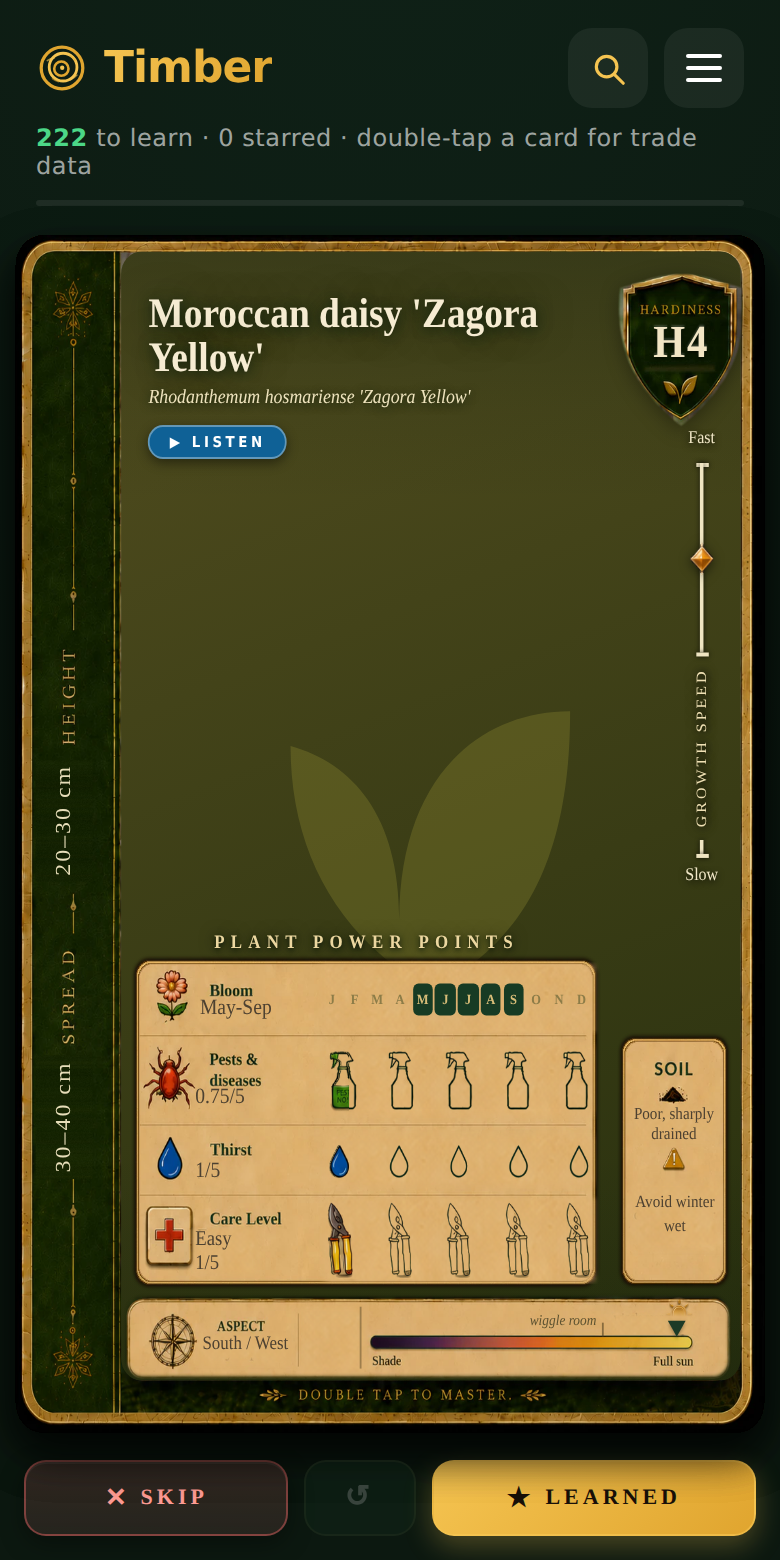
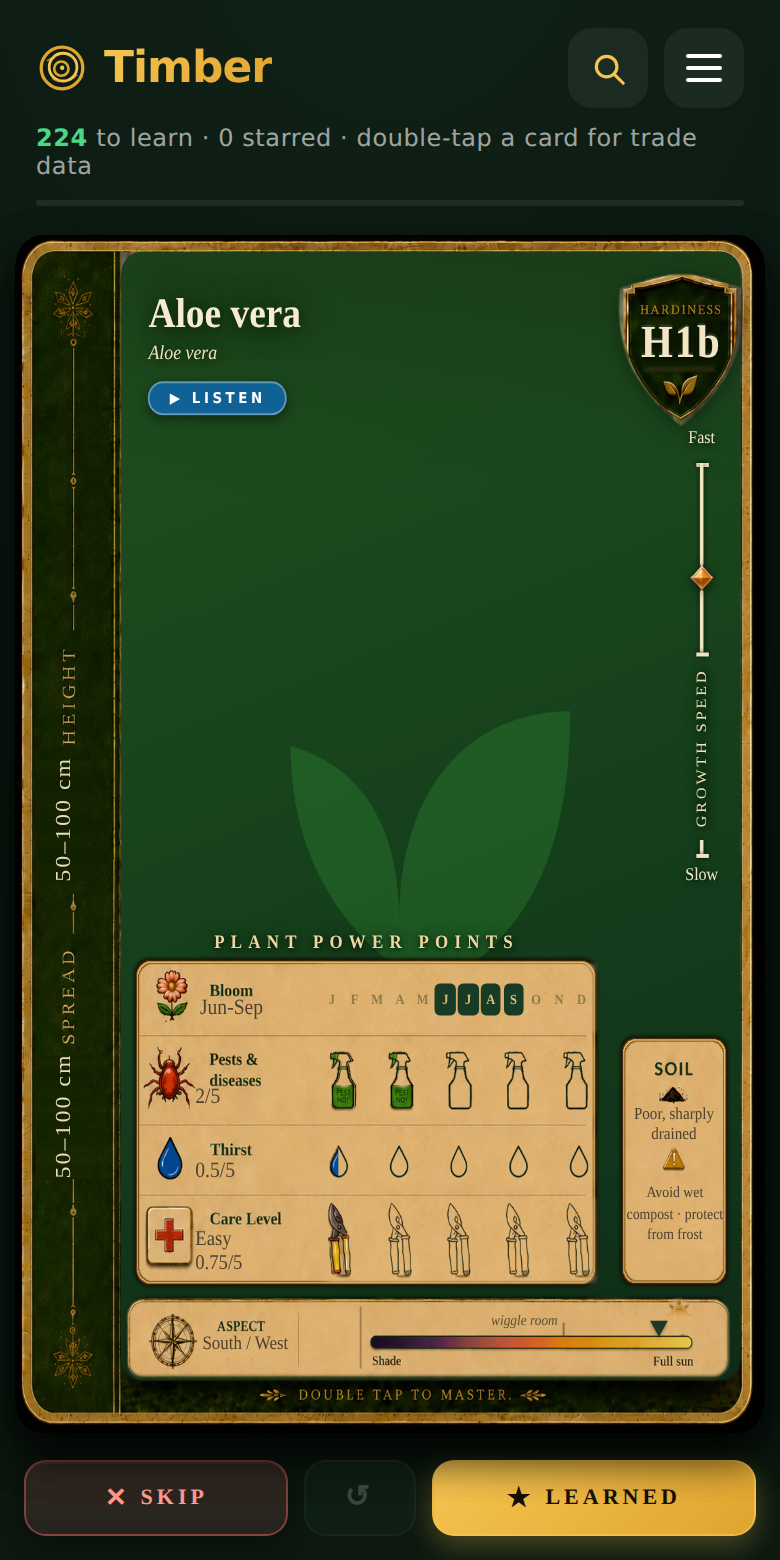
Monstera and Aloe: 224 / 81 — and toxicity text with nowhere to go
The run's first houseplants, both H1b.

The Monstera is the best photograph of the day: one mature fenestrated leaf
straight across the card band, splits and holes both legible, nothing else in 224
cards looks like it.

The Aloe is the weakest. Shot into the window, so the blades read olive-and-dark
rather than the "fleshy grey-green" the card names, and the pot fills the lower
half. Three crops: the first two put sky and pot in the band and it read as grass
behind glass; the third pulls in to the blades where the white spotting and the
toothed margins are both legible and drops the pot below the plaque. That is as
far as cropping takes this frame — a front-lit shot is a straight upgrade and it
lives on a windowsill. VQ 51, with two identity notes: the unconfirmed "Aloe
massawana hybrid" wording Oscar's own research correctly discarded, and the fact
that heavy leaf spotting fits juvenile A. vera but fits several other spotted
aloes just as well.

hardiness arrived as "H1B" and check-plant-json refused it — the RHS scale writes
H1a/H1b/H1c, so it was normalised to H1b. Same rating, same meaning, nothing else
touched.

TOXICITY, AND THIS IS THE SHARPEST CASE SO FAR. Both cards carry populated
toxicity — Monstera "Harmful if eaten · skin and eye irritant", Aloe "Harmful if
eaten" — and neither has anywhere to render. These are houseplants: handled
indoors, pruned over a worktop, in reach of children and cats in a way a border
[…]

diff --git a/timber.html b/timber.html
@@ -987,7 +987,7 @@
 
 <script>
 /* ---------- latin pronunciation (built-in speech engine — offline, no files, no deps) ---------- */
-const BUILD='r152 · 2026-08-19 · db53540';
+const BUILD='r154 · 2026-08-20 · f94e50e';
 /* Shown in the menu foot so a phone's version is checkable at a glance — the SW
    serves the previous build once before swapping, which made "which build am I
    on?" a real question. DO NOT EDIT BY HAND: the trailing hash is a digest of
@@ -6577,6 +6577,30 @@ const PLANTS = [
    hardiness:"H4", resilience:"drought tolerant · coastal tolerant · heat tolerant",
    uses:"rock gardens · containers · borders · pollinators", size:"20–30 cm H × 30–40 cm W",
    seasonalImpact:"", growthSpeed:10, pestRisk:3, thirst:4, careLevel:4, sunNeed:95, sunMin:72},
+  {common:"Swiss cheese plant", latin:"Monstera deliciosa", hue:120,
+   visual:"Large glossy green leaves · deep splits and holes · aerial-rooted climbing habit",
+   water:"Water when compost begins to dry",
+   aspect:"South",
+   soil:"Moist, well-drained; Avoid direct summer sun · avoid waterlogging",
+   prune:"Prune to control size; remove damaged leaves",
+   source:"", peak:"Jan-Dec", order:"", bench:"", root:"",
+   trade:"", retail:"", margin:"", type:"", shrink:"", returnRisk:"", pots:"",
+   cvs:"syn. Philodendron pertusum",
+   hardiness:"H1b", resilience:"shade tolerant · humidity tolerant",
+   uses:"houseplants · conservatories · indoor specimens · tropical displays", size:"4–8 m H × 1.5–2.5 m W",
+   seasonalImpact:"", growthSpeed:15, pestRisk:8, thirst:11, careLevel:6, sunNeed:55, sunMin:30},
+  {common:"Aloe vera", latin:"Aloe vera", hue:120,
+   visual:"Fleshy grey-green rosettes · pale spots on young leaves · toothed margins",
+   water:"Water when compost dries",
+   aspect:"South / West",
+   soil:"Poor, sharply drained; Avoid wet compost · protect from frost",
+   prune:"Remove dead or damaged leaves at the base",
+   source:"", peak:"Jun-Sep", order:"", bench:"", root:"",
+   trade:"", retail:"", margin:"", type:"", shrink:"", returnRisk:"", pots:"",
+   cvs:"syn. Aloe vera var. chinensis; Aloe chinensis; Aloe barbadensis var. chinensis",
+   hardiness:"H1b", resilience:"drought tolerant · heat tolerant",
+   uses:"houseplants · conservatories · sunny windowsills · containers", size:"50–100 cm H × 50–100 cm W",
+   seasonalImpact:"", growthSpeed:8, pestRisk:8, thirst:2, careLevel:3, sunNeed:90, sunMin:60},
 ];
 /* PLANTS:END */
 /* HOLD:BEGIN — managed by plants-tool.js; keep this marker pair.

diff --git a/CARD-PROTOCOL.md b/CARD-PROTOCOL.md
@@ -373,7 +373,35 @@ Focal point recorded here when off-centre:
 | Lithodora diffusa 'Heavenly Blue' | lithodora-diffusa-heavenly-blue.jpg | 50% 40% default — an August plant in its pot on gravel: dense bristly narrow leaves, the lax habit legible, the grey pot rim cropped off the bottom. **No flowers, and the flush showing is bright mid-green where the card's text says dark-green** — both true of the plant in August, both recorded in VQ 50. Wants an April–July reshoot for the gentian-blue the card leads on |
 | Rhodanthemum hosmariense 'Zagora Yellow' | rhodanthemum-hosmariense-zagora-yellow.jpg | 50% 40% default — **the supplied file was a COLLAGE**, an inset flower panel pasted over the top-right of a foliage frame, and a card cannot show a picture-in-picture. Cropped to the foliage frame only, inset excluded. First crop put the soft upper corner in the visible band and was redone lower, onto the sharp divided rosette — the card band is fixed to the master's own 12–62%, so the sharp region has to be placed there by the CROP, not by a focus override. **The inset flower is cream-white, not the yellow the card names: VQ 49.** |
 
+| Monstera deliciosa | monstera-deliciosa.jpg | 50% 40% default — one mature fenestrated leaf across the whole card band, splits and oval holes both legible, the second leaf and the aerial-rooted stem behind it. The best photograph in this batch and one of the plainest reads in the deck: nothing else in 224 cards looks like it |
+| Aloe vera | aloe-vera.jpg | 50% 40% default — **shot into the window**, so the blades read olive-and-dark rather than the "fleshy grey-green" the card names, and the pot fills the lower half of the frame. **Three crops.** The first two put sky and pot in the card band and it read as grass behind glass; the third pulls in to the blades, where the white spotting and the toothed margins are both legible, and drops the pot below the plaque. That is as far as cropping takes this frame — a front-lit shot would be a straight upgrade. VQ 51 |
+
 ## 5. Decision changelog
+
+- **v14.29 (224 dealt / 81 held — the first two houseplants of this run)**:
+  *Monstera deliciosa* and *Aloe vera*, both new, both indoor (H1b).
+  - **`hardiness` was supplied as `H1B` and the schema refused it.** The rating
+    is written `H1a`/`H1b`/`H1c` in the RHS scale, so the capital was normalised
+    to `H1b` — same rating, same meaning, no data changed. Worth knowing that
+    `check-plant-json` catches the casing rather than silently accepting a value
+    the card renderer would then print inconsistently against every other H1b.
+  - **Toxicity again, and this time it is the sharpest case yet.** Both cards
+    carry populated `toxicity` — Monstera *"Harmful if eaten · skin and eye
+    irritant"*, Aloe *"Harmful if eaten"* — and neither has anywhere to render.
+    These are **houseplants**: handled indoors, pruned over a kitchen worktop,
+    within reach of children and cats in a way a border shrub is not. The deck
+    now has 15+ cards carrying safety text that no surface shows. **Item 0c is
+    no longer a schema tidiness question.**
+  - The Aloe took three crops and is still the weakest photograph of the batch —
+    backlit, pot-heavy. Recorded in VQ 51 along with two identity notes: the
+    unconfirmed *"Aloe massawana hybrid"* wording Oscar's own research correctly
+    discarded, and the fact that heavy leaf spotting fits juvenile *A. vera* but
+    fits several other spotted aloes just as well.
+  - Both files: EXIF orientation 6 — landscape in a preview, portrait in the
+    app — Galaxy S24, no C2PA manifest, no AI marker. **Second batch running
+    where the preview orientation and the file orientation disagree**; reading
+    the displayed frame before writing crop coordinates is now routine, not a
+    catch.
 
 - **v14.28 (222 dealt / 81 held — Lithodora and Rhodanthemum)**: two new cards,
   neither genus previously in the deck. Both photographs are August foliage; both

diff --git a/VERIFY-QUEUE.md b/VERIFY-QUEUE.md
@@ -1698,6 +1698,39 @@ gentian-blue the card leads on into the picture.
 ---
 
 
+### 51. The Aloe: a label phrase dropped, spots that do not prove the species, and a backlit frame
+2026-08-18. Dealt as supplied. Three things recorded so they are not rediscovered.
+
+**1. Oscar's own research dropped part of the label, and was right to.** His
+`uncertain` block says the supplied wording was *"Aloe vera var. chinensis (Aloe
+massawana hybrid)"* and that **no authoritative source confirms any *A.
+massawana* parentage**, so it was left out of the botanical identity. Kew treats
+*A. vera* var. *chinensis*, *A. chinensis* and *A. barbadensis* var. *chinensis*
+all as synonyms of plain *Aloe vera*, which is what the card carries. The
+synonyms print in `cvs`; the unconfirmed hybrid claim does not appear anywhere.
+
+**2. The photograph does not confirm the species, and does not contradict it.**
+The plant has narrow blades with **strong white spotting and toothed margins**.
+Juvenile *Aloe vera* is spotted and loses the spots with age, so this fits — but
+so do several spotted aloes in the houseplant trade (*A. maculata* and its
+hybrids among them) `[Inference]`. Nothing here is wrong; it is simply not
+evidence. The name rests on Oscar's label, as it does for most of the deck.
+
+**3. It is shot into the window.** Backlit, so the blades read olive-and-dark
+rather than the *"fleshy grey-green"* the card names, and the pot fills the lower
+half. Three crops were tried; the third puts the spotted, toothed blades across
+the card band and the pot below it, which is as far as cropping can take this
+frame. **A front-lit shot — light behind the photographer, rosette from slightly
+above — would be a straight upgrade** and is worth two minutes on any sunny day,
+since this one lives on a windowsill.
+
+**If it ever matters which aloe it is:** a flower spike settles it. *A. vera*
+throws a tall yellow raceme; the spotted *maculata* group is orange-red and
+flat-topped `[Inference]`. Peak Jun–Sep.
+
+---
+
+
 ## Accepted, not defects
 
 Recorded so the same questions don't get re-litigated every batch.

diff --git a/LEDGER.md b/LEDGER.md
@@ -5,6 +5,18 @@ brick: Photograph the next tranche of the 52 held cards that peak in August —
   `node tools/deal-plant.js "<latin>" <photo>` now deals each one in a single
   command. The other 46 want a May / March / November / June visit.
 since: 2026-08-11  sessions-unchanged: 2
+progress: 2026-08-18 (Monstera + Aloe) — **deck 224, hold 81.** The run's first
+  houseplants, both H1b. Monstera is the best photograph of the day — one mature
+  fenestrated leaf straight across the card band, unmistakable. The Aloe is the
+  weakest: shot into the window, pot filling half the frame; three crops before
+  the spotted toothed blades read properly, and a front-lit reshoot is still
+  worth two minutes (VQ 51, with the identity notes — the unconfirmed "Aloe
+  massawana hybrid" label wording Oscar's own research correctly dropped, and
+  that heavy spotting fits juvenile A. vera but fits other spotted aloes too).
+  `hardiness` came in as "H1B" and the schema refused it — normalised to the RHS
+  spelling H1b, same rating. **Both cards carry toxicity text with nowhere to
+  render it**, and on houseplants handled indoors that is the sharpest form of
+  item 0c yet. Protocol v14.29. Gate 17/17 sequential.
 progress: 2026-08-18 (Lithodora + Rhodanthemum) — **deck 222, hold 81.** Two new
   genera, both dealt on August foliage, both cards written for a flower.
   **Rhodanthemum 'Zagora Yellow' is the one that needs Oscar**: the supplied file
